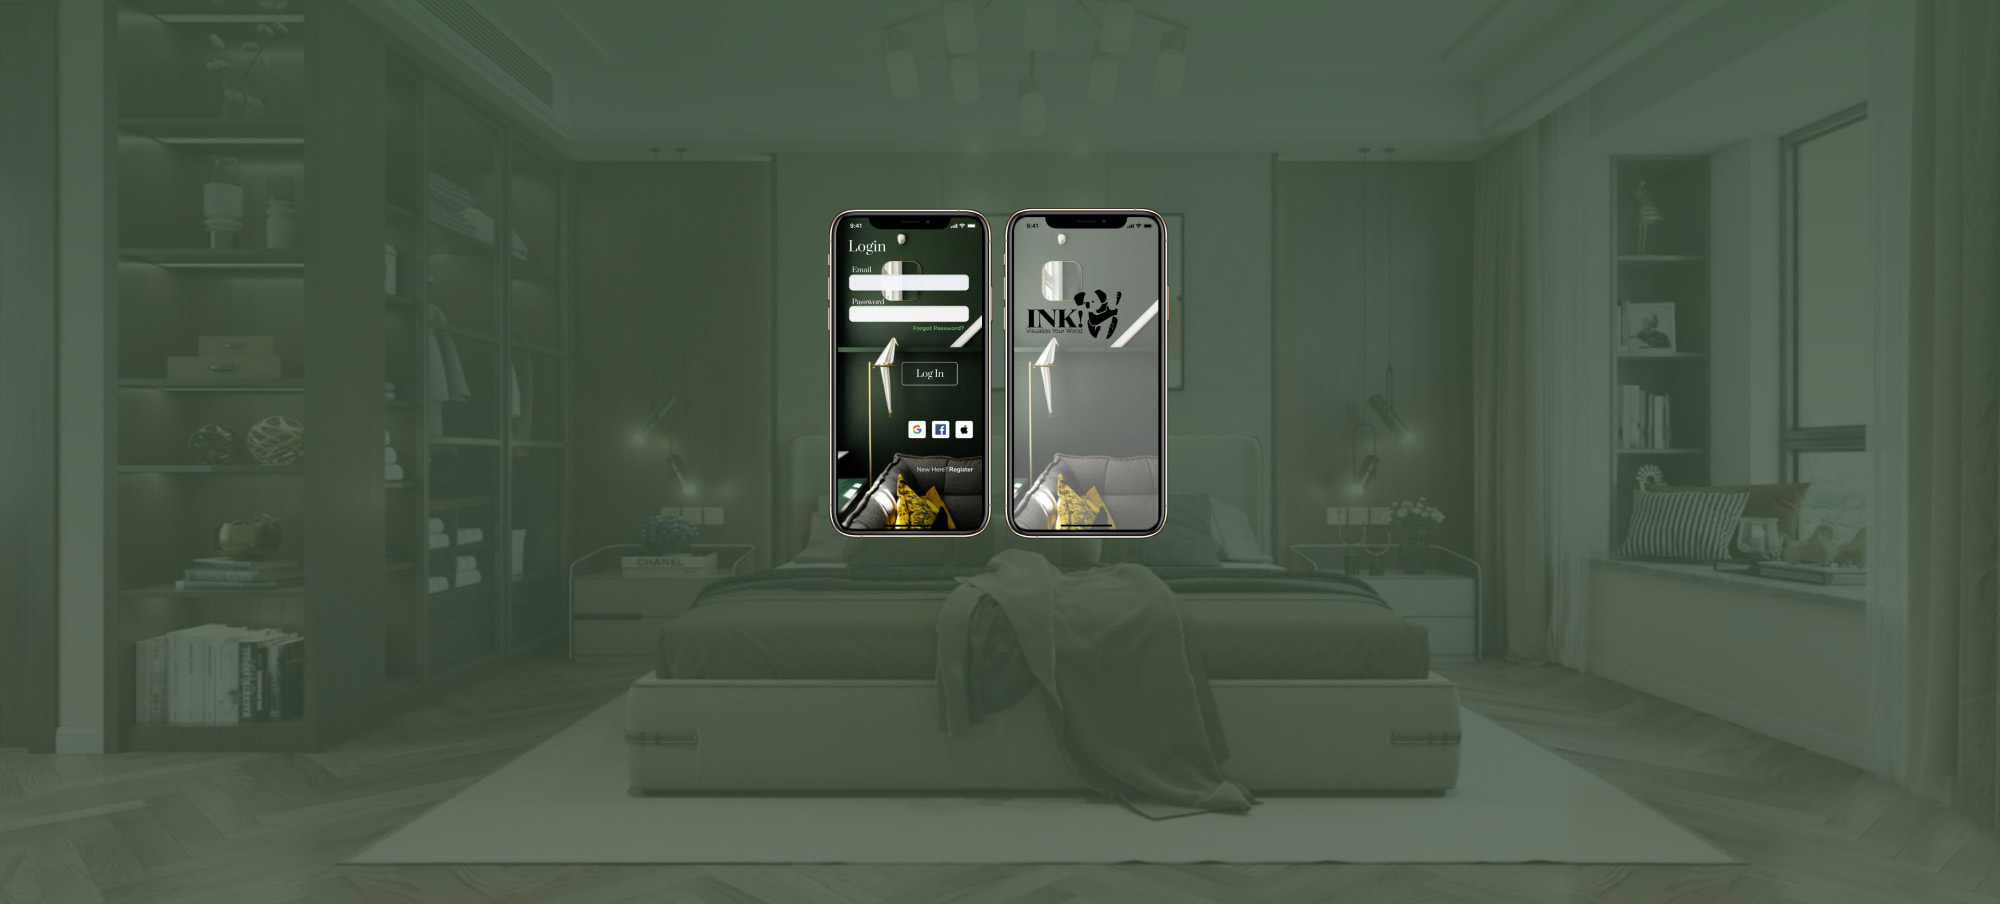
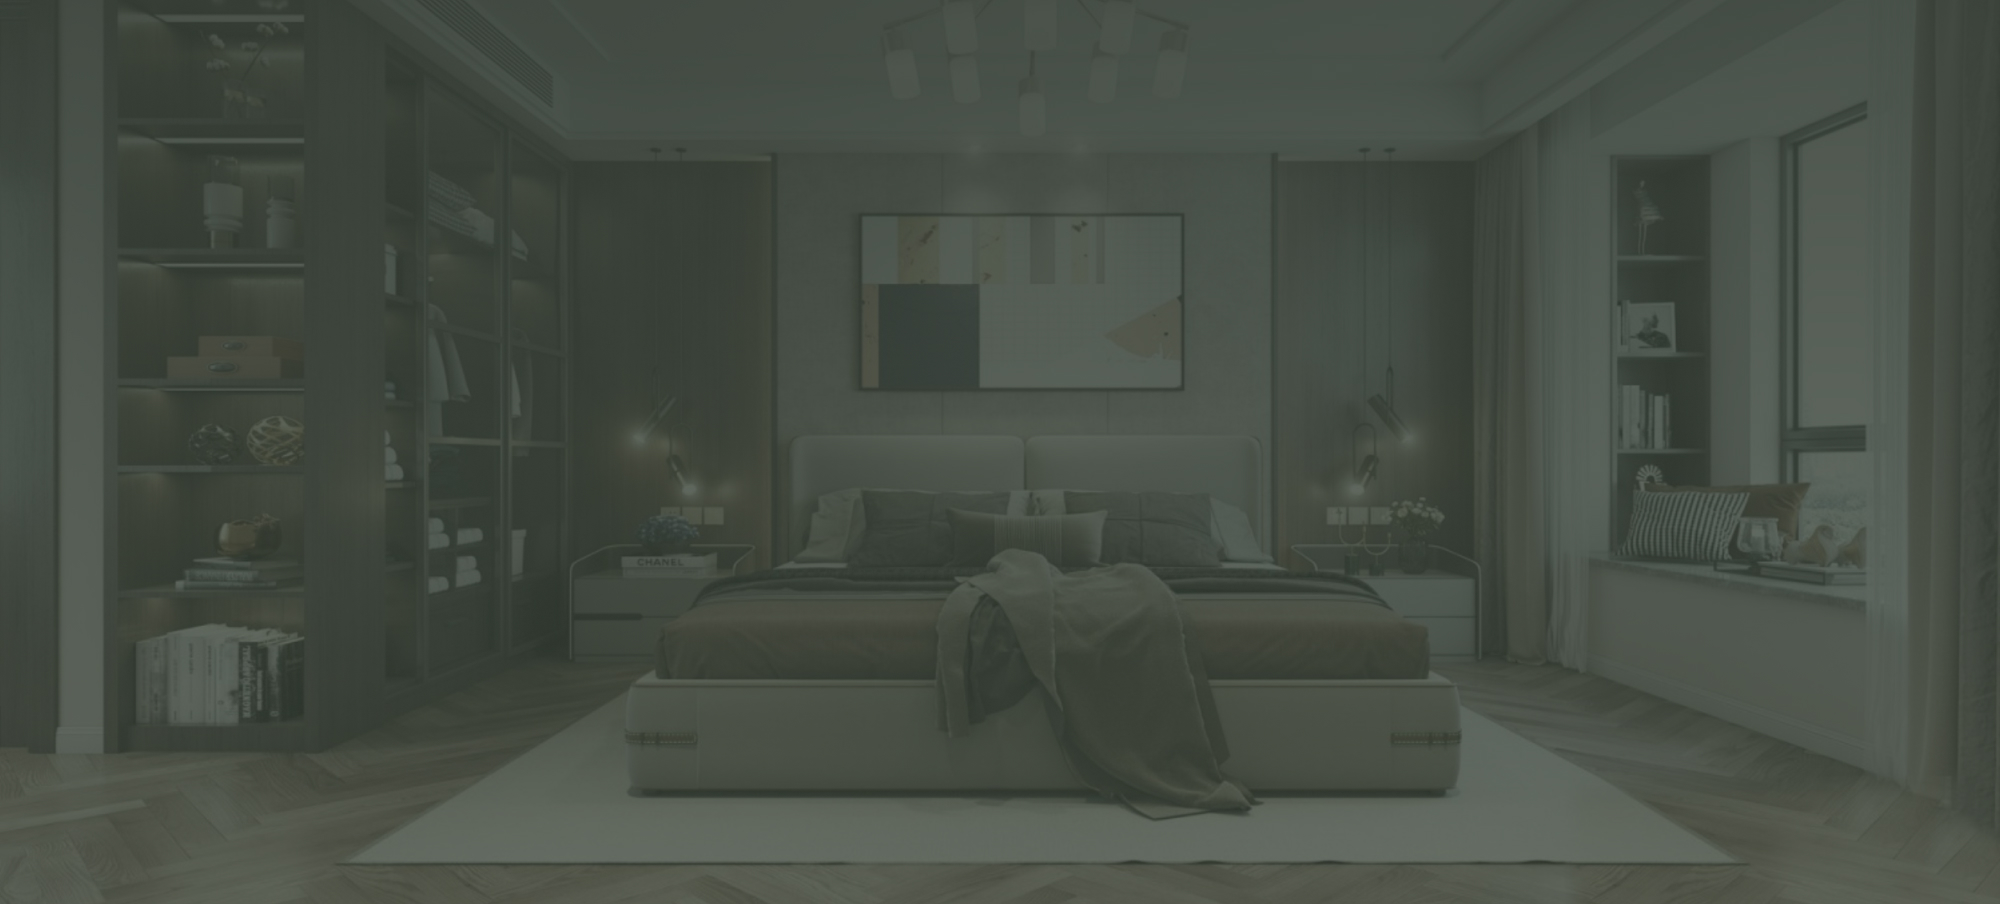
header updates

Changed region(s): [[0.403, 0.2168, 0.589, 0.6195]]

diff --git a/travelize.html b/travelize.html
@@ -11,7 +11,7 @@
         <meta name="description" content="D. Scott Clark's UX/UI online portfolio.">
         <link rel="icon" type="image/png" href="images/favicon.png"/>
         <link rel="preconnect" href="https://fonts.gstatic.com">
-        <link href="https://fonts.googleapis.com/css2?family=Montserrat:wght@200;400&family=Raleway:wght@100;400;900&display=swap" rel="stylesheet">
+        <link href="https://fonts.googleapis.com/css2?family=Montserrat:wght@200;400;900&family=Raleway:wght@100;400;900&display=swap" rel="stylesheet">
         <link rel="icon" 
           type="image/png" 
           href="https://design.dscottclark.com/portfolio/images/favicon.png">
@@ -86,6 +86,29 @@
                 display: inline-block;
                 
             }
+
+            #affinity {
+                background-color:#331991ff;
+                height: max-content;
+                display: grid;
+                grid-template-columns: 2fr 3fr;
+                margin:2rem 0 0 0;
+            }
+
+            #affinity h3 {
+                padding-left:2rem;
+                color:#ededed;
+            }
+
+            #userPersonas {
+                display: grid;
+                grid-template-columns: 1fr 1fr 1fr;
+
+            }
+            
+
+
+
             #prototype {
                 font-size: 24px;
                 font-weight:400;
@@ -207,12 +230,19 @@
         </section>
         <header id="header">
             <!--Inserts universal header-->
+            <div id="logo">
+                <a href="index.html">
+                    <img src="icons/dscottdesign.svg">
+                </a>
+                
+            </div>
         </header>
 
         <section id="introContent">
             <div id="intro">
                 
                 <div class="heroText">
+                    <img class="heroMobile" src="images/Travelize/mock.webp">
                     <h1>Travelize</h1>
                     <h3>mobile travel booking app concept</h3>
                 </div>
@@ -225,7 +255,7 @@
             </div>
             <div class="dropdown">
                 <ul>
-                    <li><a href="#proto">proto persona</a></li>
+                    <li><a href="#empathy">empathy</a></li>
                     <li><a href="#affinity">affinity diagram</a></li>
                     <li><a href="#empathy">empathy map</a></li>
                     <li><a href="#story">story board</a></li>
@@ -236,55 +266,89 @@
                 </ul>
             </div>
         </nav>
-        <section id="portfolioContent">
-            
-            <div id="caseStudy">
-                     
-                <img src="images/Travelize/caseStudy/01%20Intro.jpg" alt="Project Overview">
-                
-                <img src="images/Travelize/caseStudy/02%20User%20Research.jpg" alt="Select Problems">
-                <a class="anchor" name="User Research"></a>
-                
-                <img src="images/Travelize/caseStudy/03%20Proto%20Persona.jpg" alt="Proto Persona">
-                
-                <a class="anchor" name="affinity"></a>
-                
-                <a href="https://miro.com/app/board/o9J_km_5ITY=/">
-                
-                    <img src="images/Travelize/caseStudy/04%20Interview%20Plan.jpg" alt="Affinity Diagram">
-                    
-                </a>
-                
-                <a class="anchor" name="empathy"></a>
-                
-                <img  src="images/Travelize/caseStudy/05%20Empathy%20Map.jpg" alt="Empathy Map">
-                
-                <a class="anchor" name="story"></a>
-                
-                <img src="images/Travelize/caseStudy/06%20Storyboard.jpg" alt="Storyboard">
-                
-                <a class="anchor" name="journey"></a>
+        <section id="caseStudyContent">
+            <section id="sect01" alt="overview">
+                <div class="textContainer">
+                    <h2>About the Project</h2>
+                    <h4>Problem</h4>
+                    <p>
+                        Travel has become too convoluted. Customers are frustrated with booking too many parts of their travel through different apps with reservations in many different locations. They want to spend their limited budgets on activities  and cultural experiences rather than splurge on flights and hotels. 
+                    </p>
 
-                <img src="images/Travelize/caseStudy/07%20UserJourney%20Map.jpg" alt="User Journey Map">
-                
-                <a class="anchor" name="competitor"></a>
-                
-                <img src="images/Travelize/caseStudy/08%20Comp.%20Analysis.jpg" alt="Competitor Analysis">
-                
-                <a class="anchor" name="flow"></a>
-                
-                <a href="https://miro.com/app/board/o9J_kkpw3AY=/">
-                
-                    <img src="images/Travelize/caseStudy/09%20User%20Flow.jpg" alt="User Flow">
+                    <h4>Solution</h4>
+                    <p>
+                        Travelize prioritizes rich cultural experiences over fancy hotels and flights  with a quick and easy reservation experience, beginning to end. We make it easy to change plans inside the app, avoiding the need to ever call customer service.  
+                    </p>
+
+                    <h4>My Role</h4>
+
+                    <p>I collaborated with another UX designer on the empathy, definition, and ideation phases of the project, then I planned, wireframed, and prototyped the UI.  
+                    </p>
+
+                    <h4>Tools:</h4>
+
+                    <ul>
+                        <li>Figma</li>
+                        <li>Miro</li>
+                        <li>Adobe Photoshop</li>
+                    </ul>
+                </div>
+            </section>
+            <a class="portfolioAnchor"  name="empathy" ></a>
+            <section id="sect02" class="sectionHeader">
+                <div class="textContainer">
+                    <h1>Empathy</h1>
+                </div>
+            </section>
+            <section id="sect03" alt="DesignProcess">
+                <div class="textContainer">
+                        <h2>The Design Process</h2>
+                        <p>Through the Design Process, we were able empathize with potential users, define the user flows and key requirements, brainstorm new ideas, and prototype a new design.
+                        </p>
+
+                        <img class="imgFull" src="images/Travelize/caseStudy/designProcess.svg">                    
+                </div>
+            </section>
+            <section id="sect04" alt="Personas">
+                <div class="textContainer">
+                    <h2>User Research</h2>
+                    <p>For this project, we created a proto persona as well as planned and conducted 5 interviews with potential users throughout the United States. From this, we were able to create an affinity diagram and an empathy map that led us to our User Personas.   </p>
+                    <div class="svg100">
+                        <img src="images/Travelize/caseStudy/protoPersona.svg">
+                    </div>
                     
-                </a>
-                
-                <img src="images/Travelize/caseStudy/10%20User%20Research.jpg" alt="User Research">
-                
-                <a class="anchor" name="wire"></a>
-                
-                <img src="images/Travelize/caseStudy/11%20Wireframes.jpg" alt="Wireframes">
-                
+                    <div id="affinity">
+                        <h3>Affinity Diagram</h3>
+                        <img class="img100" src="images/Travelize/caseStudy/affinityMap.jpg">
+                        
+                    </div>
+                    <img class="img100" src="images/Travelize/caseStudy/empathyMap.jpg">
+                    <h3>User Personas</h3>
+                    <div id="userPersonas">
+                        <div class="person greg">
+                            <img src="images/Travelize/caseStudy/userPersonas/greg.jpg">
+
+                        </div>
+                        <div class="person lauren">
+                            <img src="images/Travelize/caseStudy/userPersonas/lauren.jpg">
+                        </div>
+                        <div class="person nikki">
+                            <img src="images/Travelize/caseStudy/userPersonas/Nikki.jpg">
+                        </div>
+
+                    </div>
+                </div>
+            </section>
+
+
+
+
+
+
+
+
+
+
                 <div id="prototype">
                     <a href="https://www.figma.com/proto/77jGDlGOBoTBWlsInD0lmM/Travelize-Travel-App?node-id=126%3A3022&scaling=scale-down" target="_blank">Play with the prototype</a>
                     <img src="icons/chevron-right.svg" /></div>

diff --git a/ink.html b/ink.html
@@ -19,7 +19,7 @@
         
         <style>
             #intro {
-                background-image: url(../images/ink/introDesktop.jpg);
+                background-image: url(images/ink/introDesktop.jpg);
                 
             }
             #ink {
@@ -80,7 +80,7 @@
 
             @media (max-width:640px) {
                 #intro {
-                background-image: url(../images/ink/introDesktop.jpg);
+                background-image: url(images/ink/introDesktop.jpg);
                 
             }
                 #portfolioContent {
@@ -110,8 +110,9 @@
         <section id="introContent">
             <div id="intro">
                 <div class="heroText">
-                    <h1>U.S. Department of the Interior</h1>
-                    <h3>website redesign concept</h3>
+                    <img class="heroMobile" src="images/ink/mock.webp">
+                    <h1>INK!</h1>
+                    <h3>mobile interior design app concept</h3>
                 </div>
             </div>
             

diff --git a/rmrc.html b/rmrc.html
@@ -292,14 +292,20 @@
             
         </section>
         <header id="header">
-            
+            <div id="logo">
+                <a href="index.html">
+                    <img src="icons/dscottdesign.svg">
+                </a>
+                
+            </div>
         </header>
         <section id="introContent">
             <div id="intro">
-                <img class="heroImg" src="images/RMRC/pages/mock.webp">
+                
                 <div class="heroText">
+                    <img class="heroDesktop" src="images/RMRC/pages/mock.webp">
                     <h1>Rocky Mountain Railroad Club</h1>
-                    <h3>website redesign concept</h3>
+                    <h3>mobile interior design app concept</h3>
                 </div>
                 
                 

diff --git a/deptInterior.html b/deptInterior.html
@@ -45,8 +45,9 @@
         </header>
             <section id="introContent">
                 <div id="intro">
-                    <img class="heroImg" src="images/GovRedesign/hero/DoiMock.webp">
+                    
                     <div class="heroText">
+                        <img class="heroDesktop" src="images/GovRedesign/DoiMock.webp">
                         <h1>U.S. Department of the Interior</h1>
                         <h3>website redesign concept</h3>
                     </div>

diff --git a/index.html b/index.html
@@ -53,7 +53,12 @@
     </head>
     <body>
         <header id="header">
-            
+            <div id="logo">
+                <a href="index.html">
+                    <img src="icons/dscottdesign.svg">
+                </a>
+                
+            </div>
         </header>
         <section id="intro">
             <div id="bgImage">
